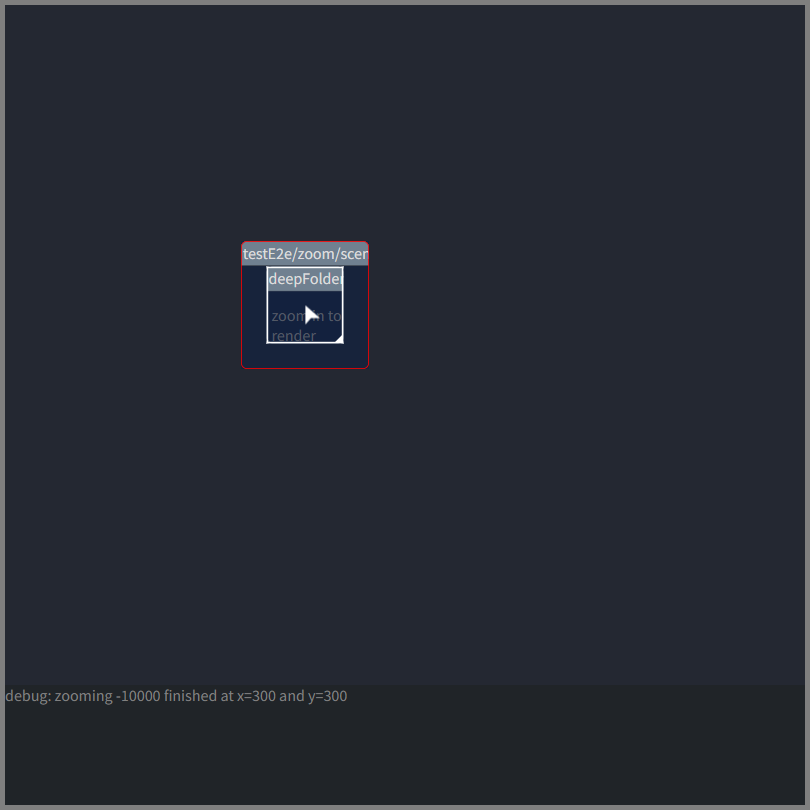
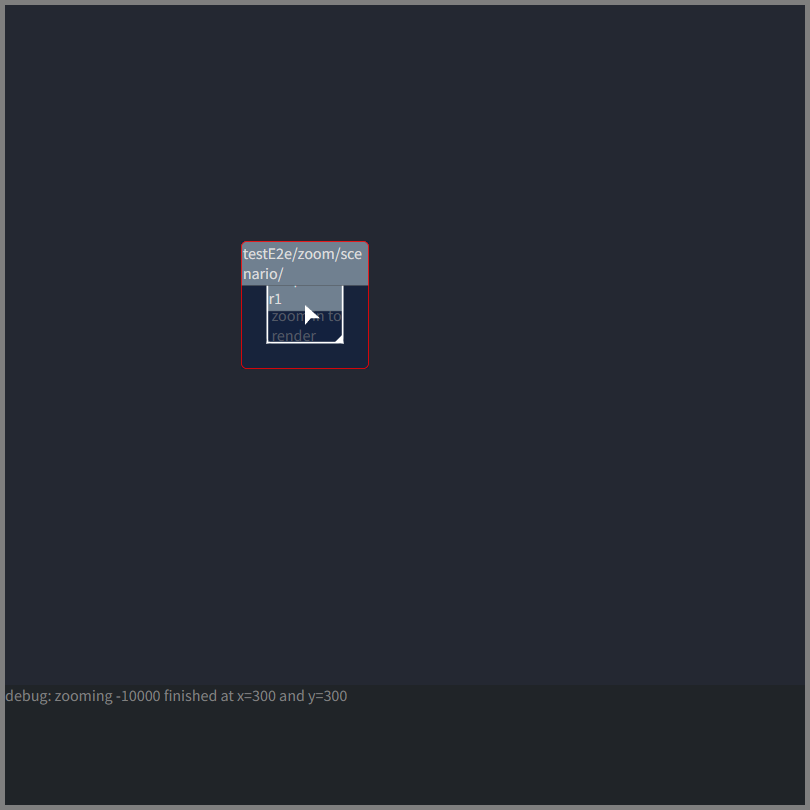
improve line breaks in BoxHeader, prefers now breaking between words

Changed region(s): [[0.2778, 0.3086, 0.463, 0.4012]]

diff --git a/src/core/index.css b/src/core/index.css
@@ -162,7 +162,7 @@ pre {
 }
 
 .boxHeaderInner {
-  line-break: anywhere;
+  word-wrap: break-word;
   padding: 2px;
   color: #ddd;
 }
